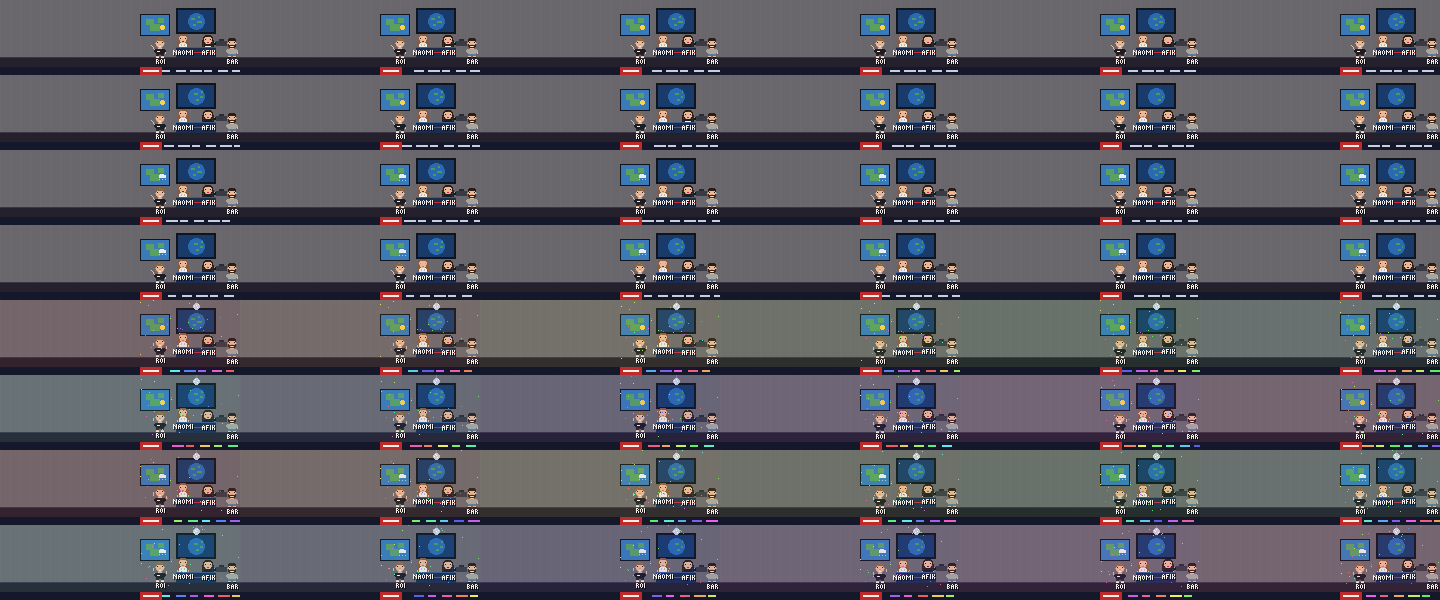
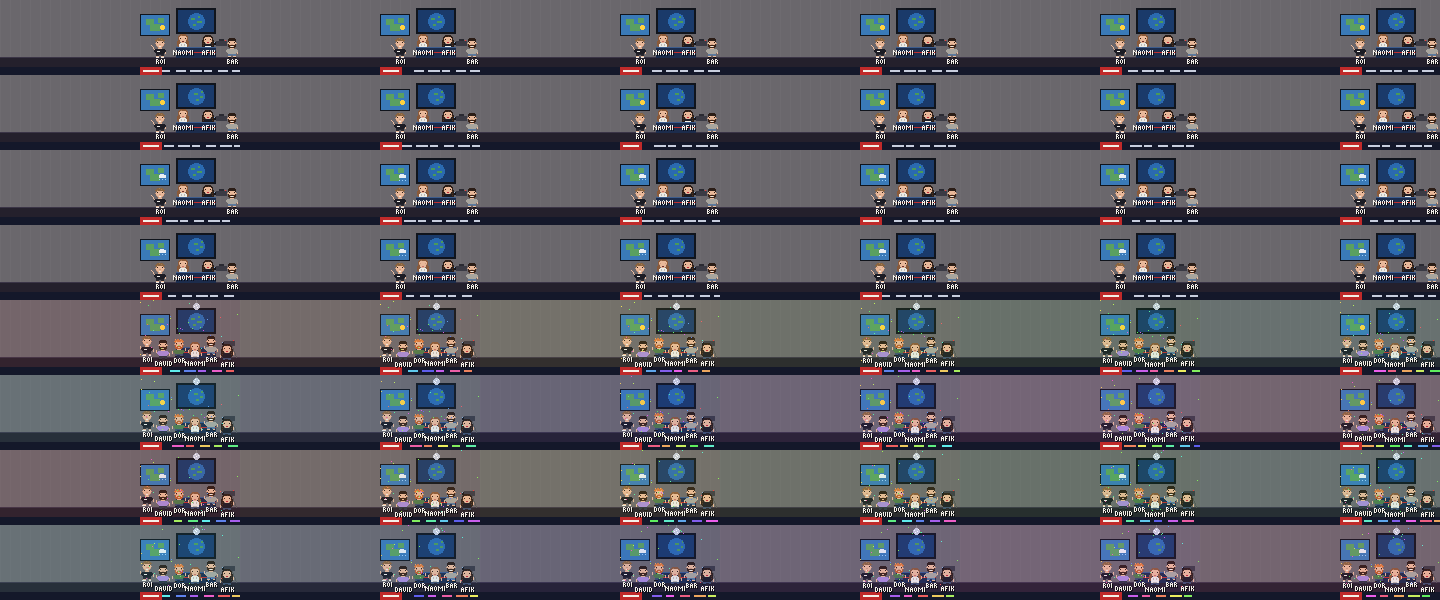
Bring David and Dor into the newsroom dance party
Claude-Session: https://claude.ai/code/session_015RvhGxofvxVPGEuMdLFVip

diff --git a/tools/scenes/activities.js b/tools/scenes/activities.js
@@ -402,7 +402,7 @@ const ACTIVITIES = (() => {
   // The N12 newsroom: Naomi and Afik read the news, Roi does the weather, Bar films it all.
   // Halfway through the loop the studio breaks into a dance party.
   A.news = (g, f) => {
-    const party = f >= 24, bounce = party && f % 6 < 3 ? -1 : 0;
+    const party = f >= 24;
     wall(g, 0.62);
     for (let x = 0; x < W; x += 10) g.rect(x, 0, 1, 58, "rgba(255,255,255,0.03)");
     // The big studio screen with a turning globe.
@@ -420,20 +420,35 @@ const ACTIVITIES = (() => {
     else { g.rect(159, 25, 7, 3, "#e8eef4"); g.rect(160, 24, 4, 1, "#e8eef4"); for (const dx of [0, 3, 6]) g.px(159 + dx, 29 + (f % 2), "#9ad0ff"); }
     // Floor, and the news desk.
     g.rect(0, 58, W, 17, "#24202c"); g.rect(0, 57, W, 1, "#3a3446");
-    g.person(NAOMI, 177, 34 + bounce, f, { upTo: NAOMI.waist, hands: party ? "LR" : "" , map: (ch, r, c, col) => (!party && ch === "m" && f % 4 < 2) ? "#6a2a2a" : col });
-    g.person(AFIK, 202, 35 + (party && f % 6 >= 3 ? -1 : 0), f, { upTo: AFIK.waist, hands: party ? "LR" : "", map: (ch, r, c, col) => (ch === "M" && f % 24 >= 16 && f % 2) ? "#6a1a1a" : col });
-    if (!party) { const py = 47 - (f % 8 < 2 ? 1 : 0); g.rect(205, py, 6, 2, "#f4f0e8"); g.rect(204, py + 1, 1, 1, SKIN); g.rect(211, py + 1, 1, 1, SKIN); }
-    g.rect(176, 47, 40, 11, "#1c2c4c"); g.rect(176, 47, 40, 1, "#3c5c8c"); g.rect(176, 52, 40, 1, "#c03030");
-    // Roi points at the map; in the party he waves both arms.
-    const rx = 154;
-    g.person(ROI, rx, 38 + bounce, f, { hands: party ? "" : "R" });
-    if (!party) { g.line(rx, 49, rx - 3, 45, SKIN); }
-    else { const up = f % 6 < 3; g.rect(rx - 1, 44 + bounce + (up ? 0 : 3), 1, 3, SKIN); g.rect(rx + 12, 44 + bounce + (up ? 3 : 0), 1, 3, SKIN); }
-    // Bar films with a shoulder camera; the red light blinks.
-    const bx = 226, tilt = party && f % 6 < 3 ? 1 : 0;
-    g.person(BAR, bx, 38, f, { hands: "R" });
-    g.rect(216, 41 + tilt, 11, 5, "#3a3a44"); g.rect(214, 42 + tilt, 2, 3, "#16161c"); g.px(214, 42 + tilt, "#8ab0d8");
-    g.rect(219, 39 + tilt, 5, 2, "#2a2a32"); if (f % 12 < 6) g.px(225, 40 + tilt, "#ff3030");
+    const desk = () => { g.rect(176, 47, 40, 11, "#1c2c4c"); g.rect(176, 47, 40, 1, "#3c5c8c"); g.rect(176, 52, 40, 1, "#c03030"); };
+    if (!party) {
+      g.person(NAOMI, 177, 34, f, { upTo: NAOMI.waist, hands: "", map: (ch, r, c, col) => (ch === "m" && f % 4 < 2) ? "#6a2a2a" : col });
+      g.person(AFIK, 202, 35, f, { upTo: AFIK.waist, hands: "", map: (ch, r, c, col) => (ch === "M" && f % 24 >= 16 && f % 2) ? "#6a1a1a" : col });
+      const py = 47 - (f % 8 < 2 ? 1 : 0); g.rect(205, py, 6, 2, "#f4f0e8"); g.rect(204, py + 1, 1, 1, SKIN); g.rect(211, py + 1, 1, 1, SKIN);
+      desk();
+      // Roi points at the map.
+      const rx = 154;
+      g.person(ROI, rx, 38, f, { hands: "R" });
+      g.line(rx, 49, rx - 3, 45, SKIN);
+      // Bar films with a shoulder camera; the red light blinks.
+      g.person(BAR, 226, 38, f, { hands: "R" });
+      g.rect(216, 41, 11, 5, "#3a3a44"); g.rect(214, 42, 2, 3, "#16161c"); g.px(214, 42, "#8ab0d8");
+      g.rect(219, 39, 5, 2, "#2a2a32"); if (f % 12 < 6) g.px(225, 40, "#ff3030");
+    } else {
+      // Party: the camera goes on a tripod, David and Dor burst in, and all six dance in a line.
+      desk();
+      g.line(228, 46, 224, 57, "#555"); g.line(230, 46, 230, 57, "#555"); g.line(232, 46, 236, 57, "#555");
+      g.rect(224, 41, 11, 5, "#3a3a44"); g.rect(222, 42, 2, 3, "#16161c"); g.px(222, 42, "#8ab0d8"); if (f % 12 < 6) g.px(233, 40, "#ff3030");
+      const line = [[ROI, 141], [DAVID, 157], [DOR, 173], [NAOMI, 189], [BAR, 205], [AFIK, 221]];
+      line.forEach(([p, x], i) => {
+        const beat = (f + i * 2) % 6 < 3, y = (i % 2 ? 61 : 57) - p.rows.length + (beat ? -1 : 0);
+        g.person(p, x, y, f, { rows: beat ? p.walkA : p.walkB, hands: "" });
+        // Arms up, swapping sides on the beat.
+        const top = y + p.hand - 4;
+        g.rect(x - 1, top + (beat ? 0 : 3), 1, 3, SKIN);
+        g.rect(x + 12, top + (beat ? 3 : 0), 1, 3, SKIN);
+      });
+    }
     // The ticker along the bottom.
     g.rect(0, 67, W, 8, "#14182a"); g.rect(140, 67, 22, 8, "#c02a2a");
     for (let i = 0; i < 8; i++) { const tx = 162 + ((i * 14 - f * 2) % 112 + 112) % 112; if (tx < 236) g.rect(tx, 70, 8 + (i % 3) * 2, 2, party ? `hsl(${(i * 45 + f * 15) % 360},80%,65%)` : "#c8cede"); }
